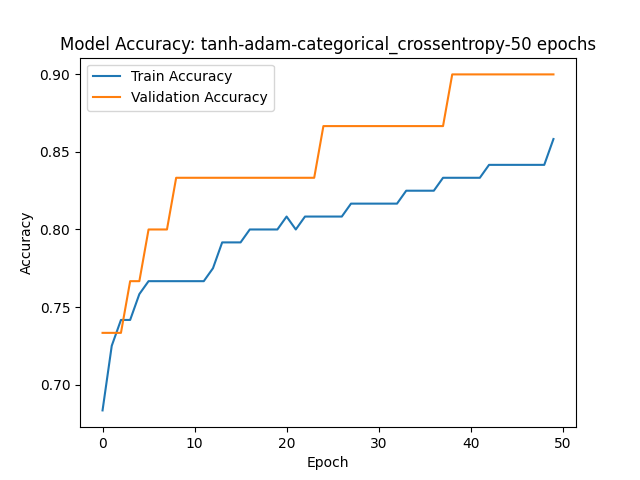
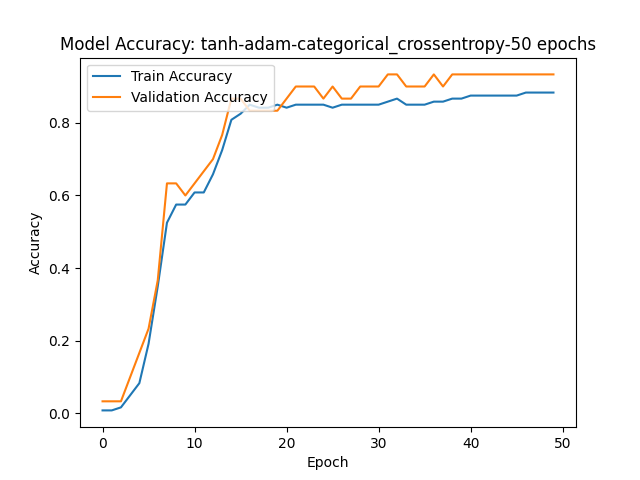
fix: add sigmoid activation function

diff --git a/main.py b/main.py
@@ -33,10 +33,11 @@ class NeuralNet:
         X_train, X_test, y_train, y_test = train_test_split(X, y, test_size=0.2)
 
         # Hyperparameters
-        activations = ['relu', 'tanh']
+        activations = ['sigmoid', 'relu', 'tanh']
         optimizers = ['adam', 'sgd']
         losses = ['categorical_crossentropy', 'mean_squared_error']
         epochs = [50, 100]
+        num_hidden_layers = [8, 4]
 
         results = []
 
@@ -46,8 +47,11 @@ class NeuralNet:
                     for epoch in epochs:
                         model = Sequential()
                         model.add(Input(shape=(X_train.shape[1],)))
-                        model.add(Dense(8, activation=activation))
-                        model.add(Dense(4, activation=activation))
+
+                        # lets add hidden layers
+                        for hidden_layer in num_hidden_layers:
+                            model.add(Dense(hidden_layer, activation=activation))
+
                         model.add(Dense(3, activation='softmax'))
 
                         model.compile(loss=loss, optimizer=optimizer, metrics=['accuracy'])

diff --git a/ReadMe.md b/ReadMe.md
@@ -69,6 +69,10 @@ The results are summarized in the table below:
 | 14           | Tanh       | SGD       | mean_squared_error       | 50         | 0.700000           | 0.800000         | 0.118937       | 0.122001      |
 | 15           | Tanh       | SGD       | mean_squared_error       | 100        | 0.933333           | 0.900000         | 0.071300       | 0.069177      |
 
+- Complete Result:
+
+<img src="/complete_result.png" />
+
 ## Plot
 <p float="left">
   <img src="/relu_adam_categorical_crossentropy_50_epochs.png" width="48%" />
@@ -111,6 +115,29 @@ The results are summarized in the table below:
   <img src="/tanh_sgd_mean_squared_error_50_epochs.png" width="48%" />
   <img src="/tanh_sgd_mean_squared_error_100_epochs.png" width="48%" />
 </p>
+
+------------------------------------------------------------------------
+
+<p float="left">
+  <img src="/sigmoid_adam_categorical_crossentropy_50_epochs.png" width="48%" />
+  <img src="/sigmoid_adam_categorical_crossentropy_100_epochs.png" width="48%" />
+</p>
+<p float="left">
+  <img src="/sigmoid_adam_mean_squared_error_50_epochs.png" width="48%" />
+  <img src="/sigmoid_adam_mean_squared_error_100_epochs.png" width="48%" />
+</p>
+
+------------------------------------------------------------------------
+
+<p float="left">
+  <img src="/sigmoid_sgd_categorical_crossentropy_50_epochs.png" width="48%" />
+  <img src="/sigmoid_sgd_categorical_crossentropy_100_epochs.png" width="48%" />
+</p>
+<p float="left">
+  <img src="/sigmoid_sgd_mean_squared_error_50_epochs.png" width="48%" />
+  <img src="/sigmoid_sgd_mean_squared_error_100_epochs.png" width="48%" />
+</p>
+
 
 
 ## Best Performing Model
